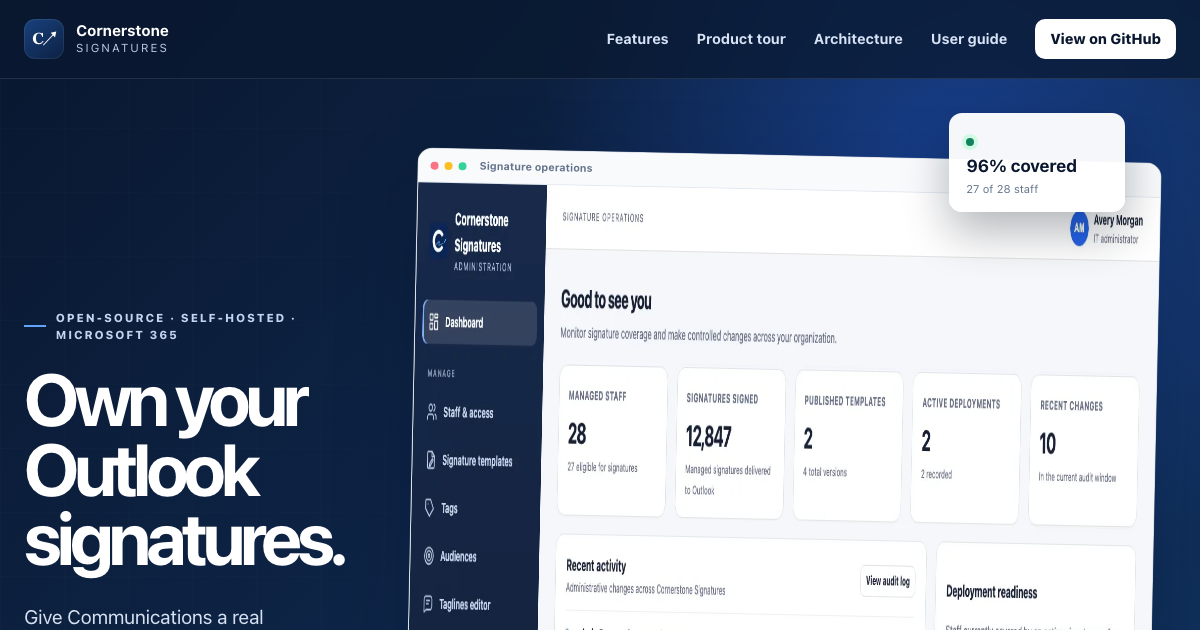
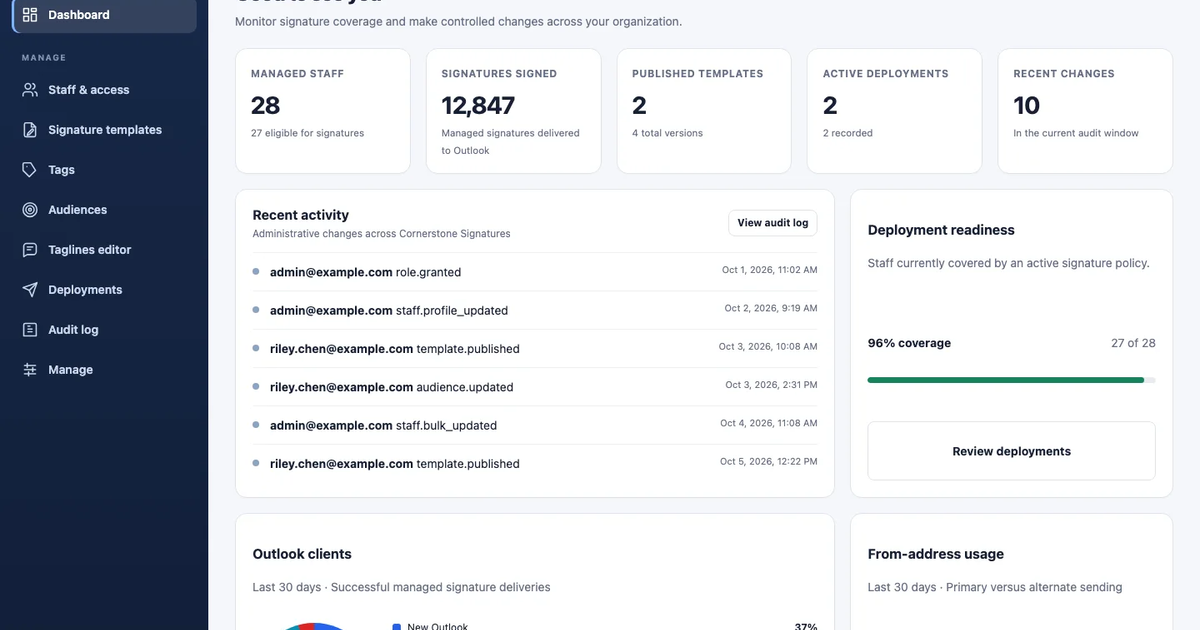
Fix product site screenshots and branding

diff --git a/docs/site.css b/docs/site.css
@@ -20,7 +20,7 @@
 * { box-sizing: border-box; }
 html { scroll-behavior: smooth; }
 body { margin: 0; overflow-x: hidden; color: var(--ink); background: var(--white); font-family: Inter, ui-sans-serif, -apple-system, BlinkMacSystemFont, "Segoe UI", sans-serif; line-height: 1.55; -webkit-font-smoothing: antialiased; }
-img { display: block; max-width: 100%; }
+img { display: block; max-width: 100%; height: auto; }
 a { color: inherit; }
 button, input { font: inherit; }
 .shell { width: min(calc(100% - 48px), var(--shell)); margin-inline: auto; }
@@ -32,7 +32,7 @@ button, input { font: inherit; }
 .site-header.is-scrolled { background: rgba(9, 23, 47, .94); box-shadow: 0 10px 30px rgba(2, 12, 27, .18); }
 .header-inner { height: 78px; display: flex; align-items: center; justify-content: space-between; gap: 28px; }
 .brand { display: inline-flex; align-items: center; gap: 12px; color: white; text-decoration: none; line-height: 1.05; }
-.brand-mark { width: 40px; height: 40px; display: inline-grid; place-items: center; flex: none; border-radius: 11px; background: linear-gradient(145deg, #19417d, #0c2144); color: white; font-family: Georgia, serif; font-weight: 700; letter-spacing: -2px; box-shadow: inset 0 0 0 1px rgba(255,255,255,.08); }
+.brand-logo { width: 40px; height: 40px; flex: none; border-radius: 11px; object-fit: contain; box-shadow: inset 0 0 0 1px rgba(255,255,255,.08); }
 .brand strong, .brand small { display: block; }
 .brand strong { font-size: .95rem; }
 .brand small { margin-top: 3px; color: #b9c8e1; font-size: .72rem; letter-spacing: .18em; text-transform: uppercase; }
@@ -74,8 +74,7 @@ button, input { font: inherit; }
 .window-bar span:nth-child(2) { background: #fbbf24; }
 .window-bar span:nth-child(3) { background: #34d399; }
 .window-bar small { margin-left: 7px; color: #64748b; font-size: .66rem; font-weight: 700; }
-.window-hero { transform: rotate(1.2deg); }
-.window-hero img { width: 100%; }
+.window > img { width: 100%; height: auto; object-fit: contain; }
 .float-card { position: absolute; z-index: 3; min-width: 176px; padding: 15px 17px; border-radius: 13px; color: var(--navy-950); background: rgba(255,255,255,.96); box-shadow: 0 20px 46px rgba(2,12,27,.3); }
 .float-card strong, .float-card small { display: block; }
 .float-card strong { font-size: 1.08rem; }
@@ -121,19 +120,17 @@ button, input { font: inherit; }
 .showcase-copy ul { padding: 0; margin: 25px 0 0; list-style: none; }
 .showcase-copy li { position: relative; margin: 9px 0; padding-left: 20px; color: #dbe7f7; font-size: .88rem; }
 .showcase-copy li::before { content: ""; position: absolute; left: 0; top: .62em; width: 6px; height: 6px; border-radius: 50%; background: #60a5fa; }
-.window-showcase { transform: perspective(1200px) rotateY(-2deg); transition: transform .25s; }
-.showcase-reverse .window-showcase { transform: perspective(1200px) rotateY(2deg); }
-.window-showcase:hover, .showcase-reverse .window-showcase:hover { transform: perspective(1200px) rotateY(0) translateY(-4px); }
+.window-showcase { transition: transform .25s; }
+.window-showcase:hover { transform: translateY(-4px); }
 .gallery-grid { display: grid; grid-template-columns: repeat(2, 1fr); gap: 22px; }
-.gallery-card { position: relative; overflow: hidden; min-height: 330px; border: 1px solid rgba(255,255,255,.13); border-radius: 16px; background: #132849; text-decoration: none; }
-.gallery-card img { width: 100%; height: 100%; object-fit: cover; object-position: top center; transition: transform .35s, opacity .35s; }
+.gallery-card { position: relative; overflow: hidden; aspect-ratio: 1440 / 1000; border: 1px solid rgba(255,255,255,.13); border-radius: 16px; background: #132849; text-decoration: none; }
+.gallery-card img { width: 100%; height: auto; aspect-ratio: 1440 / 1000; object-fit: contain; transition: transform .35s, opacity .35s; }
 .gallery-card::after { content: ""; position: absolute; inset: 45% 0 0; background: linear-gradient(transparent, rgba(4,16,36,.92)); }
 .gallery-card span { position: absolute; z-index: 2; inset: auto 26px 24px; }
 .gallery-card strong, .gallery-card small { display: block; }
 .gallery-card strong { font-size: 1rem; }
 .gallery-card small { margin-top: 4px; color: #b8c5d9; }
 .gallery-card:hover img { transform: scale(1.025); opacity: .84; }
-.gallery-card-wide { min-height: 390px; }
 
 .self-service-layout { display: grid; grid-template-columns: .7fr 1.3fr; gap: 80px; align-items: center; }
 .self-service-copy > p:not(.eyebrow) { margin: 24px 0; color: var(--muted); font-size: 1.05rem; }
@@ -153,6 +150,7 @@ button, input { font: inherit; }
 .diagram-lines i { height: 1px; background: linear-gradient(90deg, rgba(96,165,250,.25), #60a5fa); }
 .diagram-lines-out i { background: linear-gradient(90deg, #60a5fa, rgba(96,165,250,.25)); }
 .diagram-core { display: grid; justify-items: center; padding: 28px 16px; border: 1px solid rgba(147,197,253,.38); border-radius: 16px; background: #0b1a35; text-align: center; box-shadow: 0 24px 50px rgba(0,0,0,.2); }
+.diagram-logo { width: 54px; height: 54px; border-radius: 14px; }
 .diagram-core strong { margin: 13px 0 7px; line-height: 1.15; }
 .diagram-core small { color: #8ca2c0; }
 .tech-strip { display: flex; justify-content: space-between; gap: 18px; margin-top: 80px; padding: 25px 0 0; border-top: 1px solid rgba(255,255,255,.13); color: #9fb0ca; font-size: .7rem; font-weight: 900; letter-spacing: .11em; text-transform: uppercase; }
@@ -162,7 +160,7 @@ button, input { font: inherit; }
 .final-cta-inner > div:last-child > p { margin: 0 0 24px; color: var(--muted); font-size: 1.05rem; }
 .site-footer { padding: 56px 0; color: #aab9cf; background: var(--navy-950); }
 .footer-grid { display: grid; grid-template-columns: 1.2fr 1fr 1.5fr auto; gap: 30px; align-items: center; }
-.brand-footer .brand-mark { width: 36px; height: 36px; }
+.brand-footer .brand-logo { width: 36px; height: 36px; }
 .footer-grid > p { margin: 0; font-size: .8rem; }
 .footer-grid nav { display: flex; flex-wrap: wrap; gap: 18px; }
 .footer-grid nav a { color: #d3def0; font-size: .78rem; font-weight: 700; text-decoration: none; }
@@ -208,9 +206,7 @@ button, input { font: inherit; }
   .feature-card-wide { grid-column: auto; grid-template-columns: auto 1fr; }
   .client-list { grid-column: 1 / -1; }
   .showcase { margin: 75px 0 105px; }
-  .window-showcase, .showcase-reverse .window-showcase { transform: none; }
   .gallery-grid { grid-template-columns: 1fr; }
-  .gallery-card, .gallery-card-wide { min-height: 260px; }
   .self-service-layout { grid-template-columns: 1fr; gap: 48px; }
   .architecture-diagram { grid-template-columns: 1fr; gap: 14px; }
   .diagram-lines { display: none; }

diff --git a/docs/index.html b/docs/index.html
@@ -21,7 +21,7 @@
   <header class="site-header" data-header>
     <div class="shell header-inner">
       <a class="brand" href="#top" aria-label="Cornerstone Signatures home">
-        <span class="brand-mark" aria-hidden="true">C↗</span>
+        <img class="brand-logo" src="assets/app-icon.png" alt="" width="128" height="128">
         <span><strong>Cornerstone</strong><small>Signatures</small></span>
       </a>
       <button class="nav-toggle" type="button" aria-expanded="false" aria-controls="site-nav" data-nav-toggle>
@@ -165,7 +165,7 @@
         <div class="architecture-diagram" role="img" aria-label="Entra, IT, and Communications connect to Cornerstone Signatures, which stores data in SQLite and delivers signatures to Outlook">
           <div class="diagram-source"><span>Microsoft Entra</span><span>IT administrators</span><span>Communications</span></div>
           <div class="diagram-lines" aria-hidden="true"><i></i><i></i><i></i></div>
-          <div class="diagram-core"><span class="brand-mark">C↗</span><strong>Cornerstone<br>Signatures</strong><small>Node 24 container</small></div>
+          <div class="diagram-core"><img class="brand-logo diagram-logo" src="assets/app-icon.png" alt="" width="128" height="128"><strong>Cornerstone<br>Signatures</strong><small>Node 24 container</small></div>
           <div class="diagram-lines diagram-lines-out" aria-hidden="true"><i></i><i></i></div>
           <div class="diagram-target"><span>SQLite volume</span><span>Outlook clients</span></div>
         </div>
@@ -183,7 +183,7 @@
 
   <footer class="site-footer">
     <div class="shell footer-grid">
-      <a class="brand brand-footer" href="#top"><span class="brand-mark">C↗</span><span><strong>Cornerstone</strong><small>Signatures</small></span></a>
+      <a class="brand brand-footer" href="#top"><img class="brand-logo" src="assets/app-icon.png" alt="" width="128" height="128"><span><strong>Cornerstone</strong><small>Signatures</small></span></a>
       <p>Self-hosted signature management for Microsoft 365.</p>
       <nav aria-label="Footer"><a href="https://github.com/RAHB-REALTORS-Association/cornerstone-signatures/blob/main/docs/DEPLOYMENT.md">Deployment</a><a href="https://github.com/RAHB-REALTORS-Association/cornerstone-signatures/blob/main/docs/USER_GUIDE.md">User guide</a><a href="https://github.com/RAHB-REALTORS-Association/cornerstone-signatures/blob/main/SECURITY.md">Security</a><a href="https://github.com/RAHB-REALTORS-Association/cornerstone-signatures">GitHub</a></nav>
       <p class="license">AGPL-3.0-only · <span data-year>2026</span></p>
